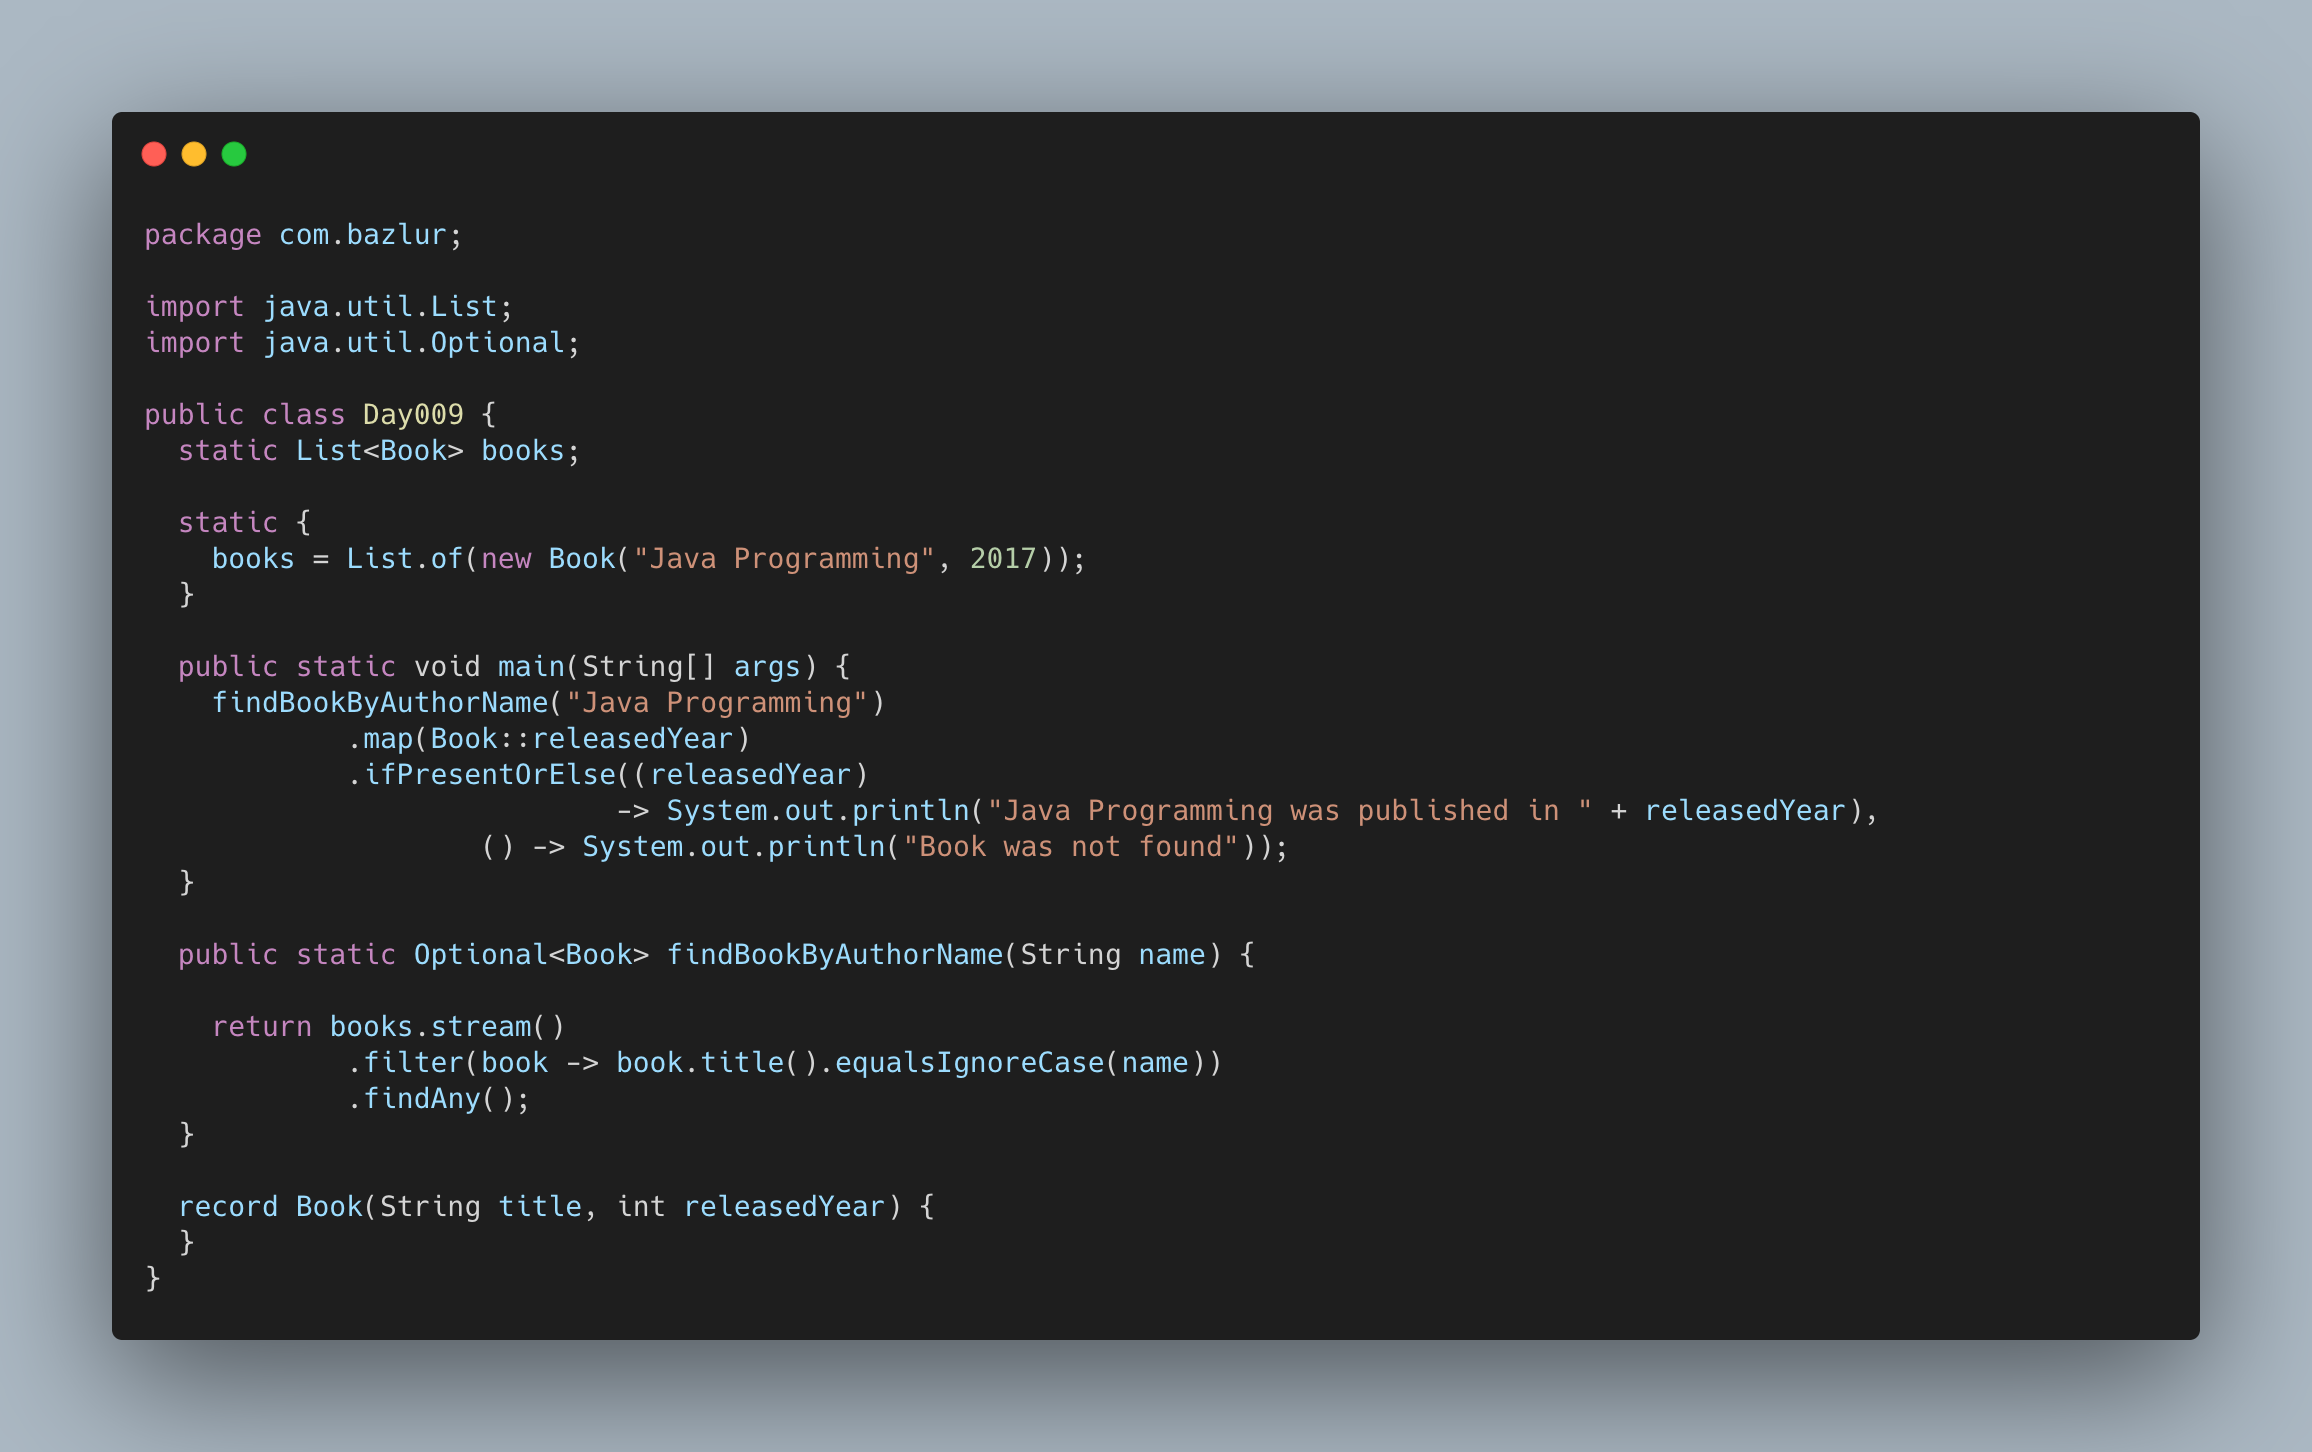
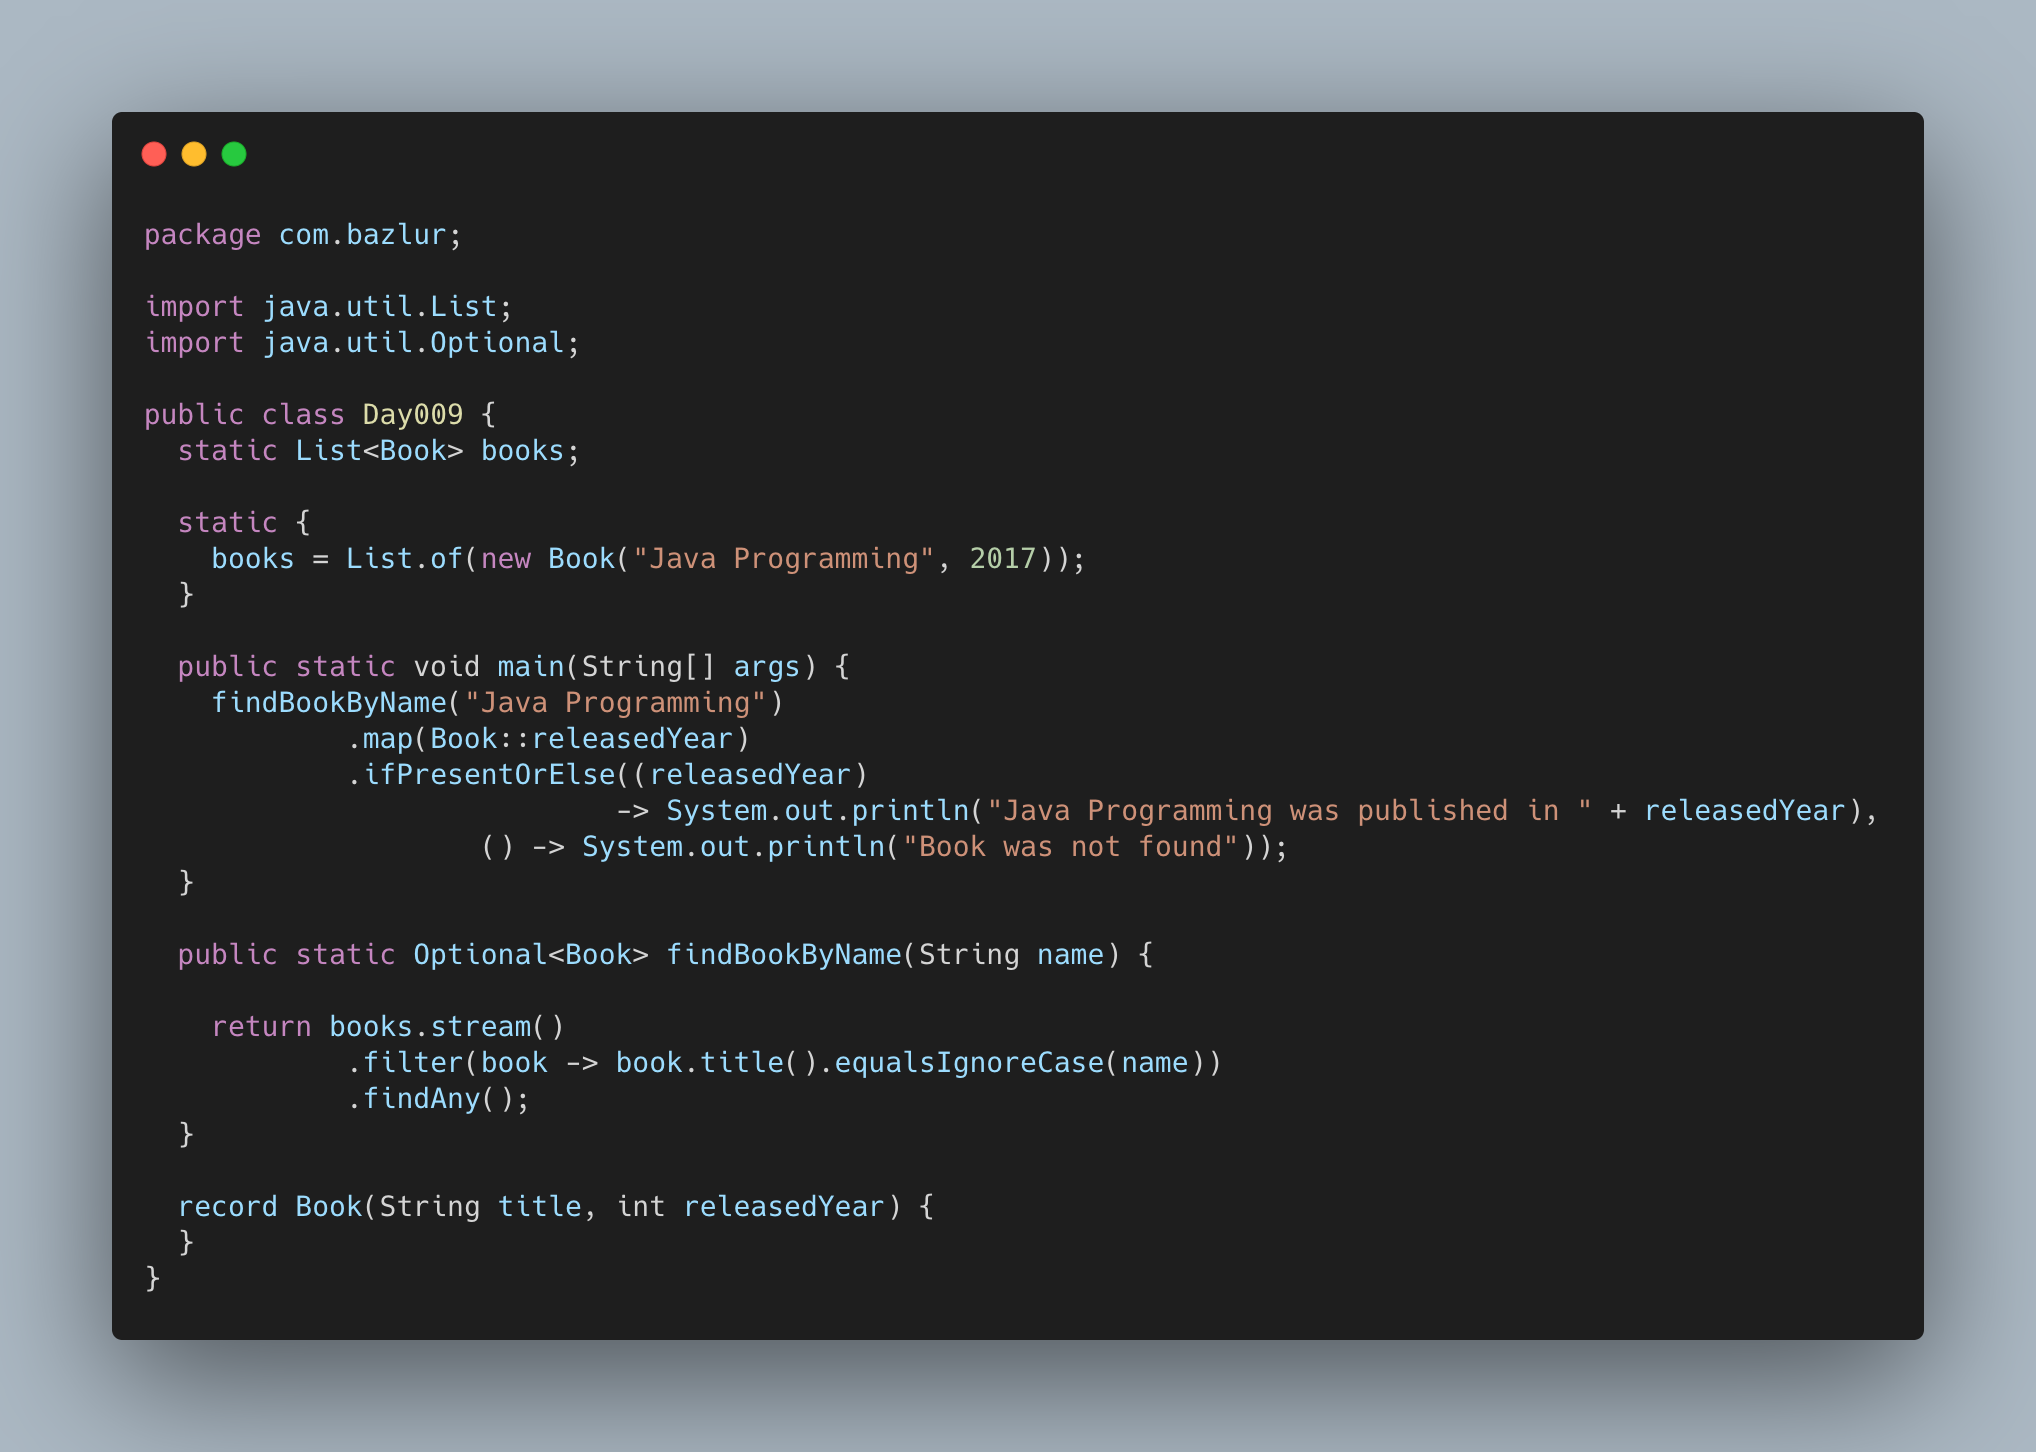
rebuilding site Tue Jun 15 19:21:35 EDT 2021

diff --git a/2021/06/lets-use-optional-to-fix-our-method-contract./index.html b/2021/06/lets-use-optional-to-fix-our-method-contract./index.html
@@ -88,24 +88,23 @@ if (!doNotTrack) {
 <p>A method is a contract; when we define one, we put our thoughts into it. We specify the parameters with their type and also a return type.  When we invoke a method, we expect it to behave according to the contract. If it doesn&rsquo;t, it&rsquo;s a violation of the contract.</p>
 <p>We have been dealing with such a violation all the time. We invoke a method with its proper arguments, and we get a return. However, sometimes we end up getting a null, which is, in fact, a clear violation. We shouldn&rsquo;t accept such a violation.  If a method cannot return the value of the specified type, it should mention that in the method signature, the method may or may not be returning the value you are expecting. If we know it from the method signature, we then write our code accordingly.</p>
 <p>Now the question is, how do we define such a contract in a method signature? Well, that&rsquo;s where Optional comes into play. Set your return type as Optional. Optional is a mystery box, a wrapping paper; it may or may not contain the value. When we specify that in a method signature, we assume that the box might be empty.  Let&rsquo;s see an example-</p>
-<div class="highlight"><pre style="color:#f8f8f2;background-color:#272822;-moz-tab-size:4;-o-tab-size:4;tab-size:4"><code class="language-java" data-lang="java"><span style="color:#66d9ef">public</span> <span style="color:#66d9ef">static</span> Optional<span style="color:#f92672">&lt;</span>Book<span style="color:#f92672">&gt;</span> <span style="color:#a6e22e">findBookByAuthorName</span><span style="color:#f92672">(</span>String name<span style="color:#f92672">)</span> <span style="color:#f92672">{</span>
+<div class="highlight"><pre style="color:#f8f8f2;background-color:#272822;-moz-tab-size:4;-o-tab-size:4;tab-size:4"><code class="language-java" data-lang="java"><span style="color:#66d9ef">public</span> <span style="color:#66d9ef">static</span> Optional<span style="color:#f92672">&lt;</span>Book<span style="color:#f92672">&gt;</span> <span style="color:#a6e22e">findBookByName</span><span style="color:#f92672">(</span>String name<span style="color:#f92672">)</span> <span style="color:#f92672">{</span>
   <span style="color:#66d9ef">return</span> books<span style="color:#f92672">.</span><span style="color:#a6e22e">stream</span><span style="color:#f92672">()</span>
           <span style="color:#f92672">.</span><span style="color:#a6e22e">filter</span><span style="color:#f92672">(</span>book <span style="color:#f92672">-&gt;</span> book<span style="color:#f92672">.</span><span style="color:#a6e22e">title</span><span style="color:#f92672">().</span><span style="color:#a6e22e">equalsIgnoreCase</span><span style="color:#f92672">(</span>name<span style="color:#f92672">))</span>
           <span style="color:#f92672">.</span><span style="color:#a6e22e">findAny</span><span style="color:#f92672">();</span>
 <span style="color:#f92672">}</span>
 </code></pre></div><p>The method above specified Optional as a return type. It may return the book that I&rsquo;m looking for or may not. I&rsquo;m aware of this, and I can deal with it when I invoke it.  For example-</p>
-<div class="highlight"><pre style="color:#f8f8f2;background-color:#272822;-moz-tab-size:4;-o-tab-size:4;tab-size:4"><code class="language-java" data-lang="java">var bookByAuthorName <span style="color:#f92672">=</span> findBookByAuthorName<span style="color:#f92672">(</span><span style="color:#e6db74">&#34;Java Programming&#34;</span><span style="color:#f92672">);</span>
-<span style="color:#66d9ef">if</span> <span style="color:#f92672">(</span>bookByAuthorName<span style="color:#f92672">.</span><span style="color:#a6e22e">isPresent</span><span style="color:#f92672">())</span> <span style="color:#f92672">{</span>
-  var book <span style="color:#f92672">=</span> bookByAuthorName<span style="color:#f92672">.</span><span style="color:#a6e22e">get</span><span style="color:#f92672">();</span>
-  var releasedYear <span style="color:#f92672">=</span> book<span style="color:#f92672">.</span><span style="color:#a6e22e">releasedYear</span><span style="color:#f92672">();</span>
-  System<span style="color:#f92672">.</span><span style="color:#a6e22e">out</span><span style="color:#f92672">.</span><span style="color:#a6e22e">println</span><span style="color:#f92672">(</span><span style="color:#e6db74">&#34;Java Programming was published in &#34;</span> <span style="color:#f92672">+</span> releasedYear<span style="color:#f92672">);</span>
-<span style="color:#f92672">}</span> <span style="color:#66d9ef">else</span> <span style="color:#f92672">{</span>
-  System<span style="color:#f92672">.</span><span style="color:#a6e22e">out</span><span style="color:#f92672">.</span><span style="color:#a6e22e">println</span><span style="color:#f92672">(</span><span style="color:#e6db74">&#34;Book was not found&#34;</span><span style="color:#f92672">);</span>
-<span style="color:#f92672">}</span>
-
+<div class="highlight"><pre style="color:#f8f8f2;background-color:#272822;-moz-tab-size:4;-o-tab-size:4;tab-size:4"><code class="language-java" data-lang="java">    var bookOpt <span style="color:#f92672">=</span> findBookByName<span style="color:#f92672">(</span><span style="color:#e6db74">&#34;Java Programming&#34;</span><span style="color:#f92672">);</span>
+    <span style="color:#66d9ef">if</span> <span style="color:#f92672">(</span>bookOpt<span style="color:#f92672">.</span><span style="color:#a6e22e">isPresent</span><span style="color:#f92672">())</span> <span style="color:#f92672">{</span>
+        var book <span style="color:#f92672">=</span> bookOpt<span style="color:#f92672">.</span><span style="color:#a6e22e">get</span><span style="color:#f92672">();</span>
+        var releasedYear <span style="color:#f92672">=</span> book<span style="color:#f92672">.</span><span style="color:#a6e22e">releasedYear</span><span style="color:#f92672">();</span>
+        System<span style="color:#f92672">.</span><span style="color:#a6e22e">out</span><span style="color:#f92672">.</span><span style="color:#a6e22e">println</span><span style="color:#f92672">(</span><span style="color:#e6db74">&#34;Java Programming was published in &#34;</span> <span style="color:#f92672">+</span> releasedYear<span style="color:#f92672">);</span>
+    <span style="color:#f92672">}</span> <span style="color:#66d9ef">else</span> <span style="color:#f92672">{</span>
+        System<span style="color:#f92672">.</span><span style="color:#a6e22e">out</span><span style="color:#f92672">.</span><span style="color:#a6e22e">println</span><span style="color:#f92672">(</span><span style="color:#e6db74">&#34;Book was not found&#34;</span><span style="color:#f92672">);</span>
+    <span style="color:#f92672">}</span>
 </code></pre></div><p>Or we can do the same thing with the functional construct, e.g.</p>
 <div class="highlight"><pre style="color:#f8f8f2;background-color:#272822;-moz-tab-size:4;-o-tab-size:4;tab-size:4"><code class="language-java" data-lang="java">
-findBookByAuthorName<span style="color:#f92672">(</span><span style="color:#e6db74">&#34;Java Programming&#34;</span><span style="color:#f92672">)</span>
+findBookByName<span style="color:#f92672">(</span><span style="color:#e6db74">&#34;Java Programming&#34;</span><span style="color:#f92672">)</span>
 <span style="color:#f92672">.</span><span style="color:#a6e22e">map</span><span style="color:#f92672">(</span>Book<span style="color:#f92672">::</span>releasedYear<span style="color:#f92672">)</span>
 <span style="color:#f92672">.</span><span style="color:#a6e22e">ifPresentOrElse</span><span style="color:#f92672">((</span>releasedYear<span style="color:#f92672">)</span> 
         <span style="color:#f92672">-&gt;</span> System<span style="color:#f92672">.</span><span style="color:#a6e22e">out</span><span style="color:#f92672">.</span><span style="color:#a6e22e">println</span><span style="color:#f92672">(</span><span style="color:#e6db74">&#34;Java Programming was published in &#34;</span> <span style="color:#f92672">+</span> releasedYear<span style="color:#f92672">),</span>
